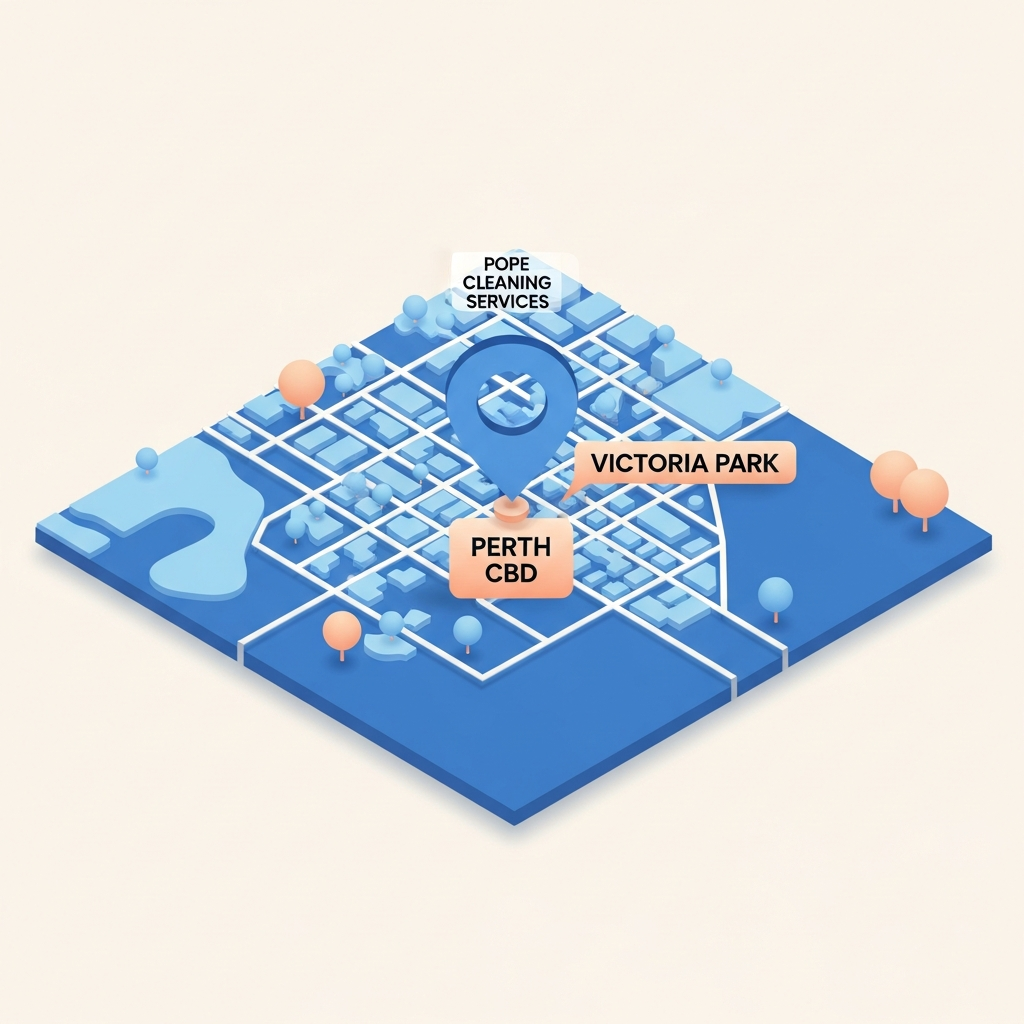
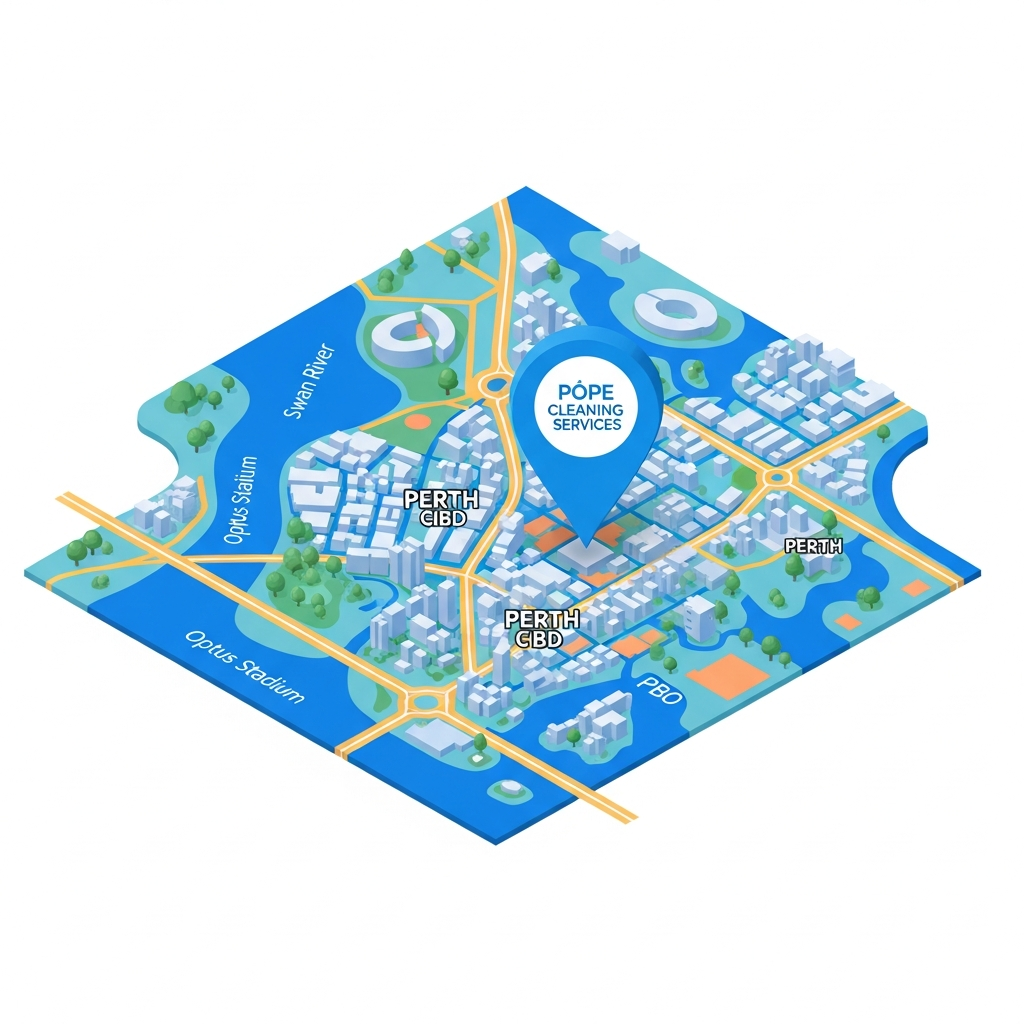
Restored to '75087e01295237b7a9031d563c8a8662f4c178fb'
Replit-Restored-To: 75087e01295237b7a9031d563c8a8662f4c178fb

diff --git a/client/src/components/home/contact.tsx b/client/src/components/home/contact.tsx
@@ -74,25 +74,30 @@ export function Contact() {
             </form>
           </div>
           
-            <div className="relative">
-              <div className="absolute inset-0 bg-accent/20 rounded-[3rem] transform -rotate-3 scale-105 blur-2xl -z-10"></div>
-              <div className="bg-white p-6 rounded-[2.5rem] shadow-2xl border border-white/50 relative">
-                <div className="bg-secondary text-white p-8 rounded-2xl shadow-xl">
-                  <h4 className="font-display font-bold text-2xl mb-4">Service Area</h4>
-                  <p className="text-lg text-white/80 leading-relaxed mb-6">
-                    We proudly serve the entire Perth metropolitan area, providing premium cleaning services from Joondalup to Mandurah.
-                  </p>
-                  <ul className="space-y-3">
-                    {["Perth CBD", "Victoria Park", "South Perth", "Subiaco", "Scarborough"].map((area) => (
-                      <li key={area} className="flex items-center gap-3 text-sm font-medium text-accent">
-                        <div className="w-1.5 h-1.5 rounded-full bg-accent"></div>
-                        {area}
-                      </li>
-                    ))}
-                  </ul>
-                </div>
+          <div className="relative">
+            <div className="absolute inset-0 bg-accent/20 rounded-[3rem] transform -rotate-3 scale-105 blur-2xl -z-10"></div>
+            <div className="bg-white p-2 rounded-[2.5rem] shadow-2xl border border-white/50 relative">
+              <div className="absolute -bottom-6 -right-6 bg-secondary text-white p-6 rounded-2xl shadow-xl max-w-xs animate-in fade-in slide-in-from-bottom-4 duration-1000 delay-500">
+                <h4 className="font-bold text-lg mb-2">Service Area</h4>
+                <p className="text-sm text-white/80">We proudly serve the entire Perth metropolitan area, from Joondalup to Mandurah.</p>
+              </div>
+              
+              <img 
+                src={ASSETS.contact.map.src} 
+                alt={ASSETS.contact.map.alt} 
+                className="w-full h-auto object-cover rounded-[2rem] bg-blue-50/50 aspect-square"
+                loading="lazy"
+                onError={(e) => {
+                  (e.target as HTMLImageElement).style.display = 'none';
+                  (e.target as HTMLImageElement).nextElementSibling?.classList.remove('hidden');
+                }}
+              />
+              <div className="hidden w-full h-auto object-cover rounded-[2rem] bg-blue-50 aspect-square flex-col items-center justify-center text-primary border border-primary/20">
+                <span className="font-bold mb-2">Map Placeholder</span>
+                <span className="text-sm text-muted-foreground">3D Perth Metro Map</span>
               </div>
             </div>
+          </div>
           
         </div>
       </div>
